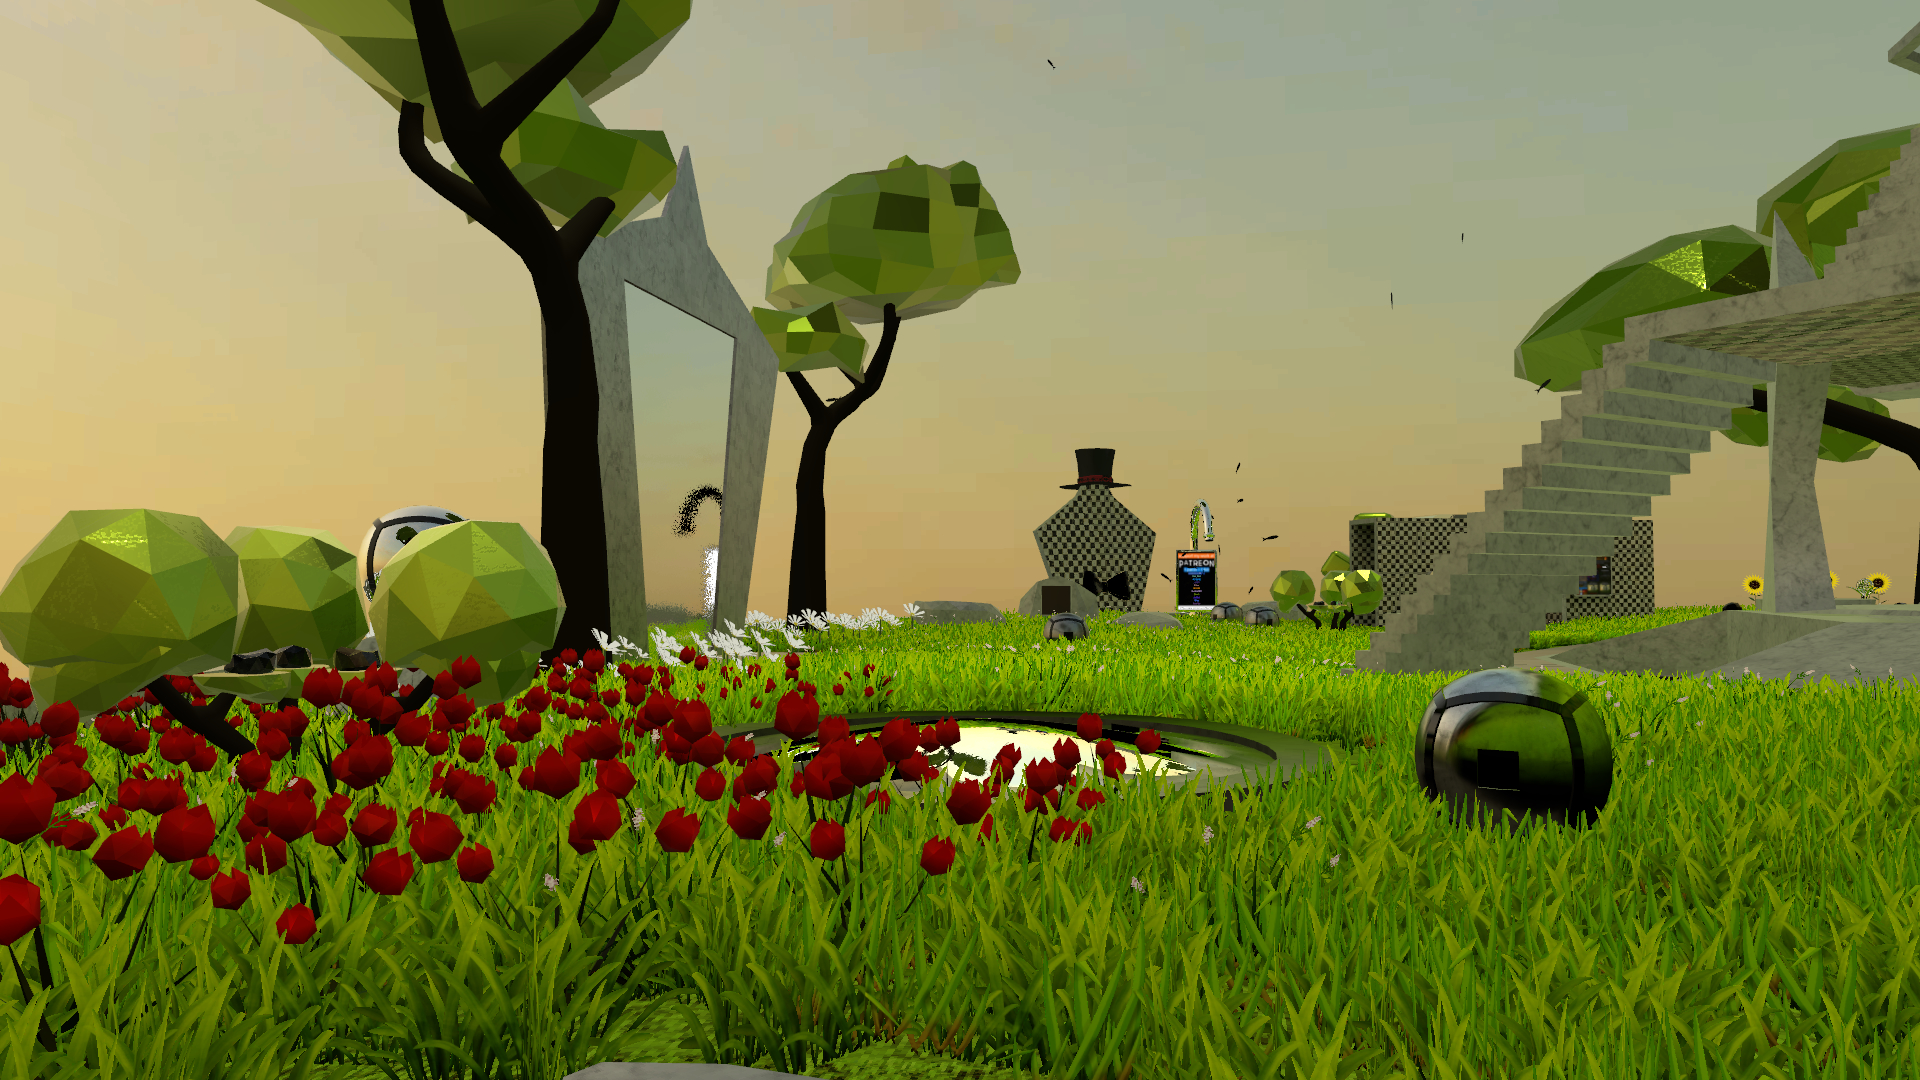
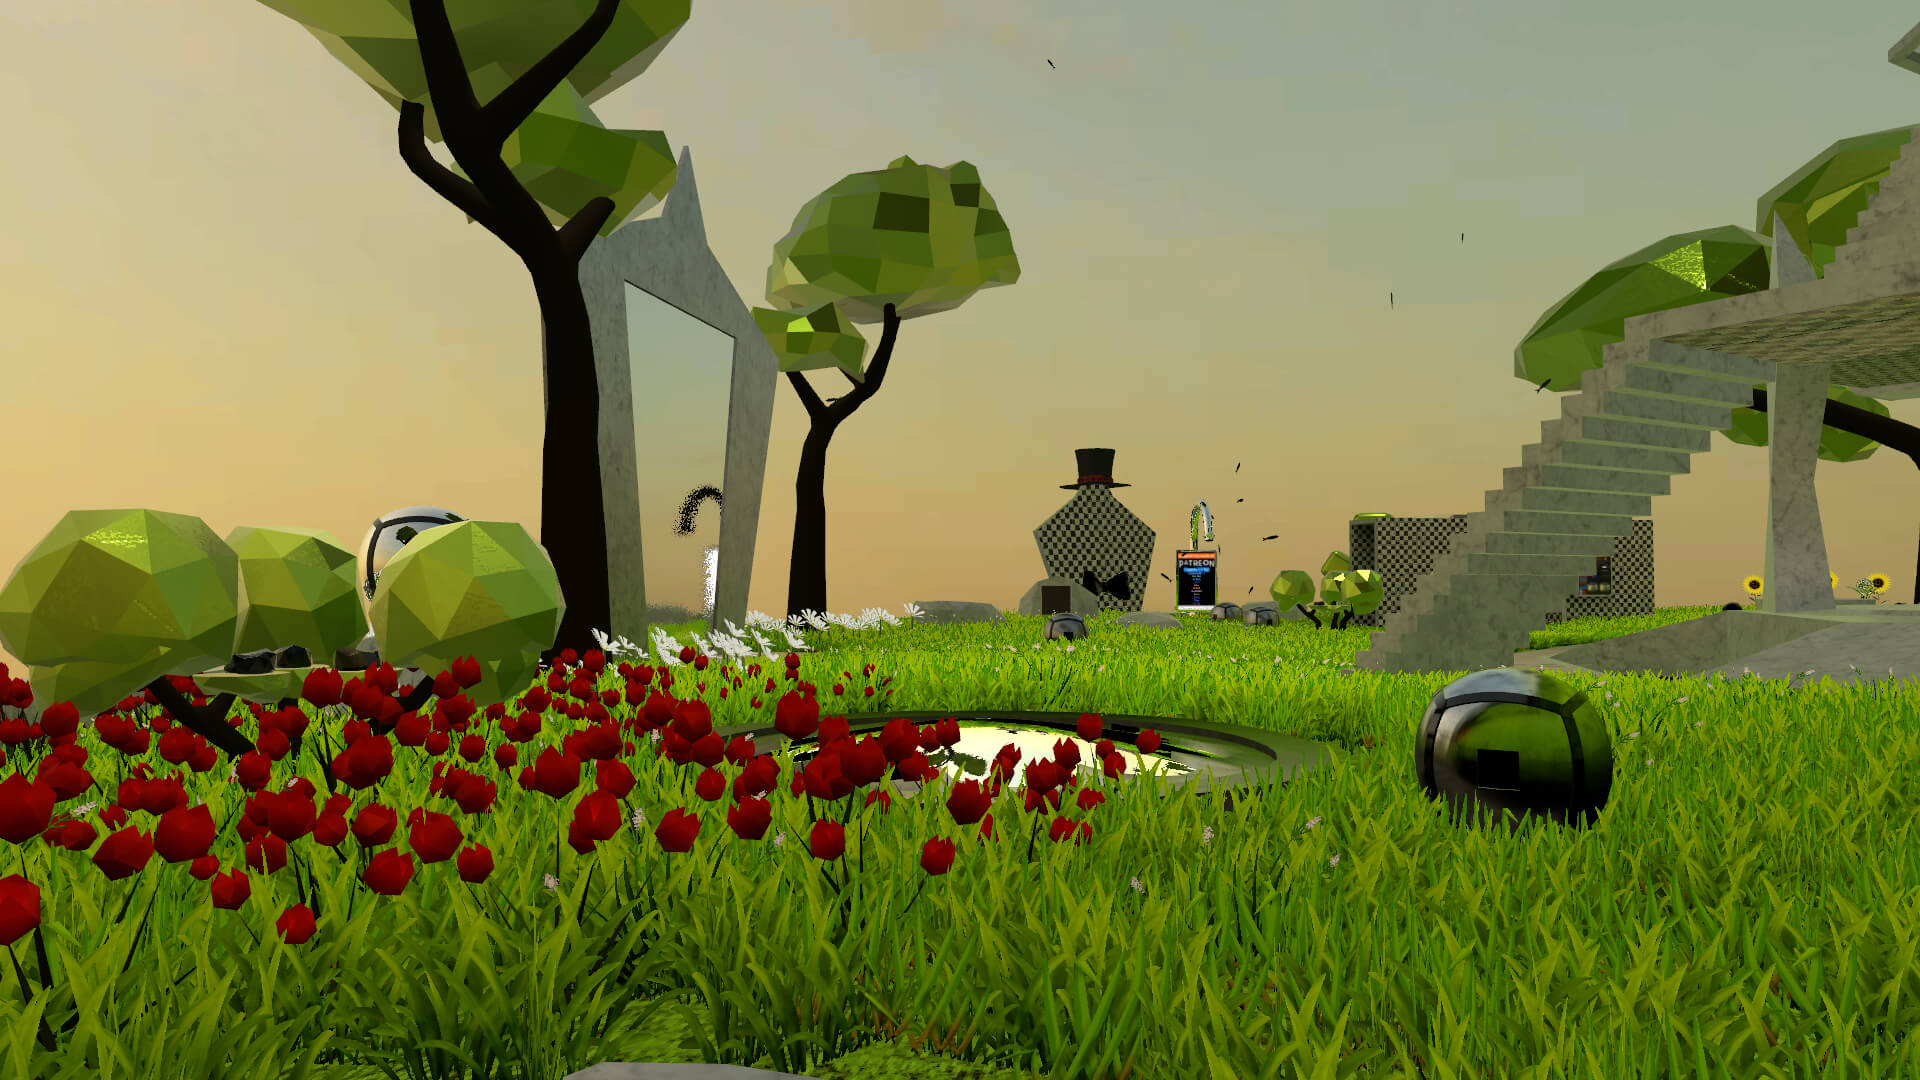
＜＞＜
＜＞＜

diff --git a/js/script.js b/js/script.js
@@ -1285,24 +1285,70 @@ preloadBackgroundImages();
         document.body.setAttribute('data-page', page);
         const bgDiv = document.getElementById('page-background');
         let bgUrl = '';
-        if (page === 'home') bgUrl = 'images/HOME_BG.jpg';
-        else if (page === 'daily') bgUrl = 'images/DVRC_BG.jpg';
-        else if (page === 'rosefish') bgUrl = 'images/ROSE_FISH_BG.jpg';
-        else if (page === 'fishcraft') bgUrl = 'images/FISH_CRAFT_BG.jpg';
-        else if (page === 'support') bgUrl = 'images/SUPPORT_BG.jpg';
-        else if (page === 'ratfishrace') bgUrl = 'images/RAT_FISH_RACE_BG.jpg';
-        else if (page === 'communities') bgUrl = 'images/COMMUNITIES_BG.jpg';
-        else if (page === 'aquarium') bgUrl = 'images/AQUARIUM_BG.jpg';
-        // Add more per-page backgrounds as needed
-        if (bgDiv) {
-            bgDiv.style.backgroundImage = bgUrl ? `url('${bgUrl}')` : '';
-        } else {
-            const bgDivNew = document.createElement('div');
-            bgDivNew.id = 'page-background';
-            if (bgUrl) {
-                bgDivNew.style.backgroundImage = `url('${bgUrl}')`;
+        if (page === 'daily') {
+            // Cycle through DVRC backgrounds every 6 seconds with crossfade and zoom-in
+            const bgImages = [
+                'images/DVRC_BG.jpg',
+                'images/DVRC_BG_1.jpg',
+                'images/DVRC_BG_2.jpg',
+                'images/DVRC_BG_3.jpg',
+                'images/DVRC_BG_4.jpg',
+                'images/DVRC_BG_5.jpg'
+            ];
+            let idx = 0;
+            let isFirst = true;
+            function setBg(fade = true) {
+                if (bgDiv) {
+                    if (fade && !isFirst) {
+                        bgDiv.style.transition = 'opacity 1s ease-in-out';
+                        bgDiv.style.opacity = '0';
+                        setTimeout(() => {
+                            bgDiv.style.backgroundImage = `url('${bgImages[idx]}')`;
+                            // Restart zoom-in animation
+                            bgDiv.style.animation = 'none';
+                            void bgDiv.offsetWidth; // force reflow
+                            bgDiv.style.animation = '';
+                            bgDiv.style.opacity = '1';
+                        }, 500);
+                    } else {
+                        bgDiv.style.backgroundImage = `url('${bgImages[idx]}')`;
+                        bgDiv.style.opacity = '1';
+                        // Ensure animation is running
+                        bgDiv.style.animation = '';
+                    }
+                } else {
+                    const bgDivNew = document.createElement('div');
+                    bgDivNew.id = 'page-background';
+                    bgDivNew.style.backgroundImage = `url('${bgImages[idx]}')`;
+                    bgDivNew.style.opacity = '1';
+                    document.body.insertBefore(bgDivNew, document.body.firstChild);
+                }
+                isFirst = false;
             }
-            document.body.insertBefore(bgDivNew, document.body.firstChild);
+            setBg(false);
+            setInterval(() => {
+                idx = (idx + 1) % bgImages.length;
+                setBg(true);
+            }, 6000); // 6 seconds
+        } else {
+            if (page === 'home') bgUrl = 'images/HOME_BG.jpg';
+            else if (page === 'rosefish') bgUrl = 'images/ROSE_FISH_BG.jpg';
+            else if (page === 'fishcraft') bgUrl = 'images/FISH_CRAFT_BG.jpg';
+            else if (page === 'support') bgUrl = 'images/SUPPORT_BG.jpg';
+            else if (page === 'ratfishrace') bgUrl = 'images/RAT_FISH_RACE_BG.jpg';
+            else if (page === 'communities') bgUrl = 'images/COMMUNITIES_BG.jpg';
+            else if (page === 'aquarium') bgUrl = 'images/AQUARIUM_BG.jpg';
+            // Add more per-page backgrounds as needed
+            if (bgDiv) {
+                bgDiv.style.backgroundImage = bgUrl ? `url('${bgUrl}')` : '';
+            } else {
+                const bgDivNew = document.createElement('div');
+                bgDivNew.id = 'page-background';
+                if (bgUrl) {
+                    bgDivNew.style.backgroundImage = `url('${bgUrl}')`;
+                }
+                document.body.insertBefore(bgDivNew, document.body.firstChild);
+            }
         }
     }
 })();

diff --git a/css/style.css b/css/style.css
@@ -218,6 +218,17 @@ img[src="images/meaning_of_fish.png"] { max-width: 480px !important; width: 100%
     background-repeat: no-repeat;
     background-attachment: fixed;
     background-position: center center;
+    animation: bg-zoom-in 30s linear infinite alternate;
+    transition: background-image 1s ease-in-out, filter 1s linear;
+}
+
+@keyframes bg-zoom-in {
+    0% {
+        background-size: 100% 100%;
+    }
+    100% {
+        background-size: 110% 110%;
+    }
 }
 
 /* --- Theme Styles (condensed - structure remains the same) --- */

diff --git a/daily.html b/daily.html
@@ -10,6 +10,7 @@
     <link rel="stylesheet" href="css/back-to-top.css">
 </head>
 <body>
+<div id="page-background"></div>
 
 <!-- Background container for swimming community images -->
 <div id="swimming-images-background" class="swimming-images-container"></div>
